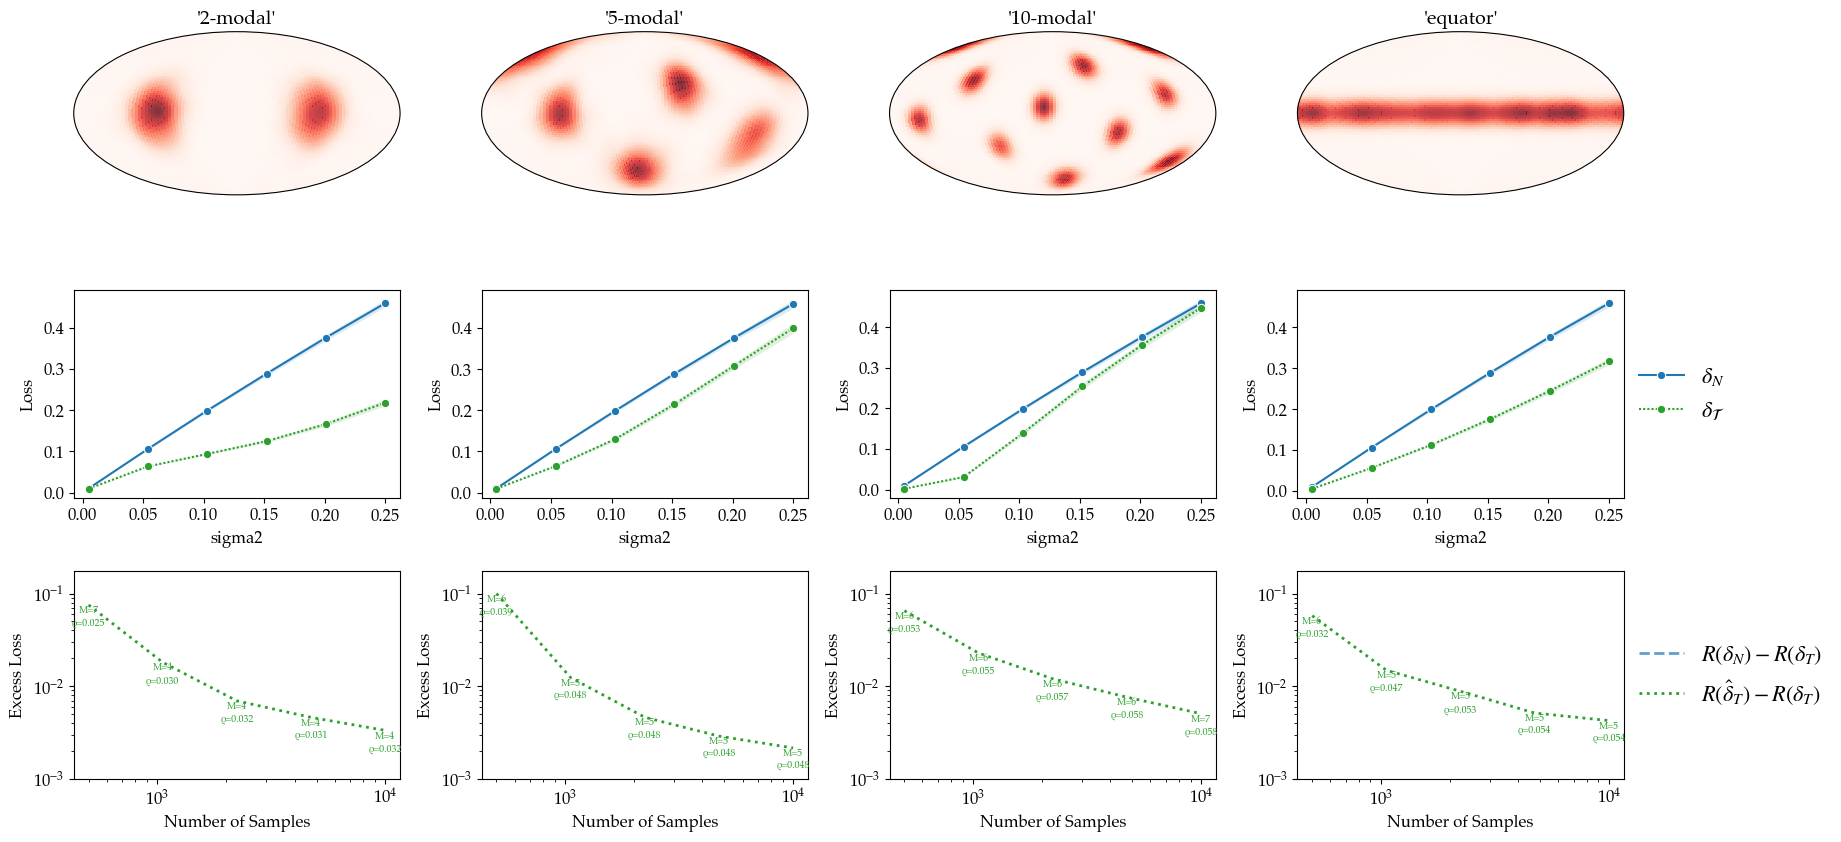
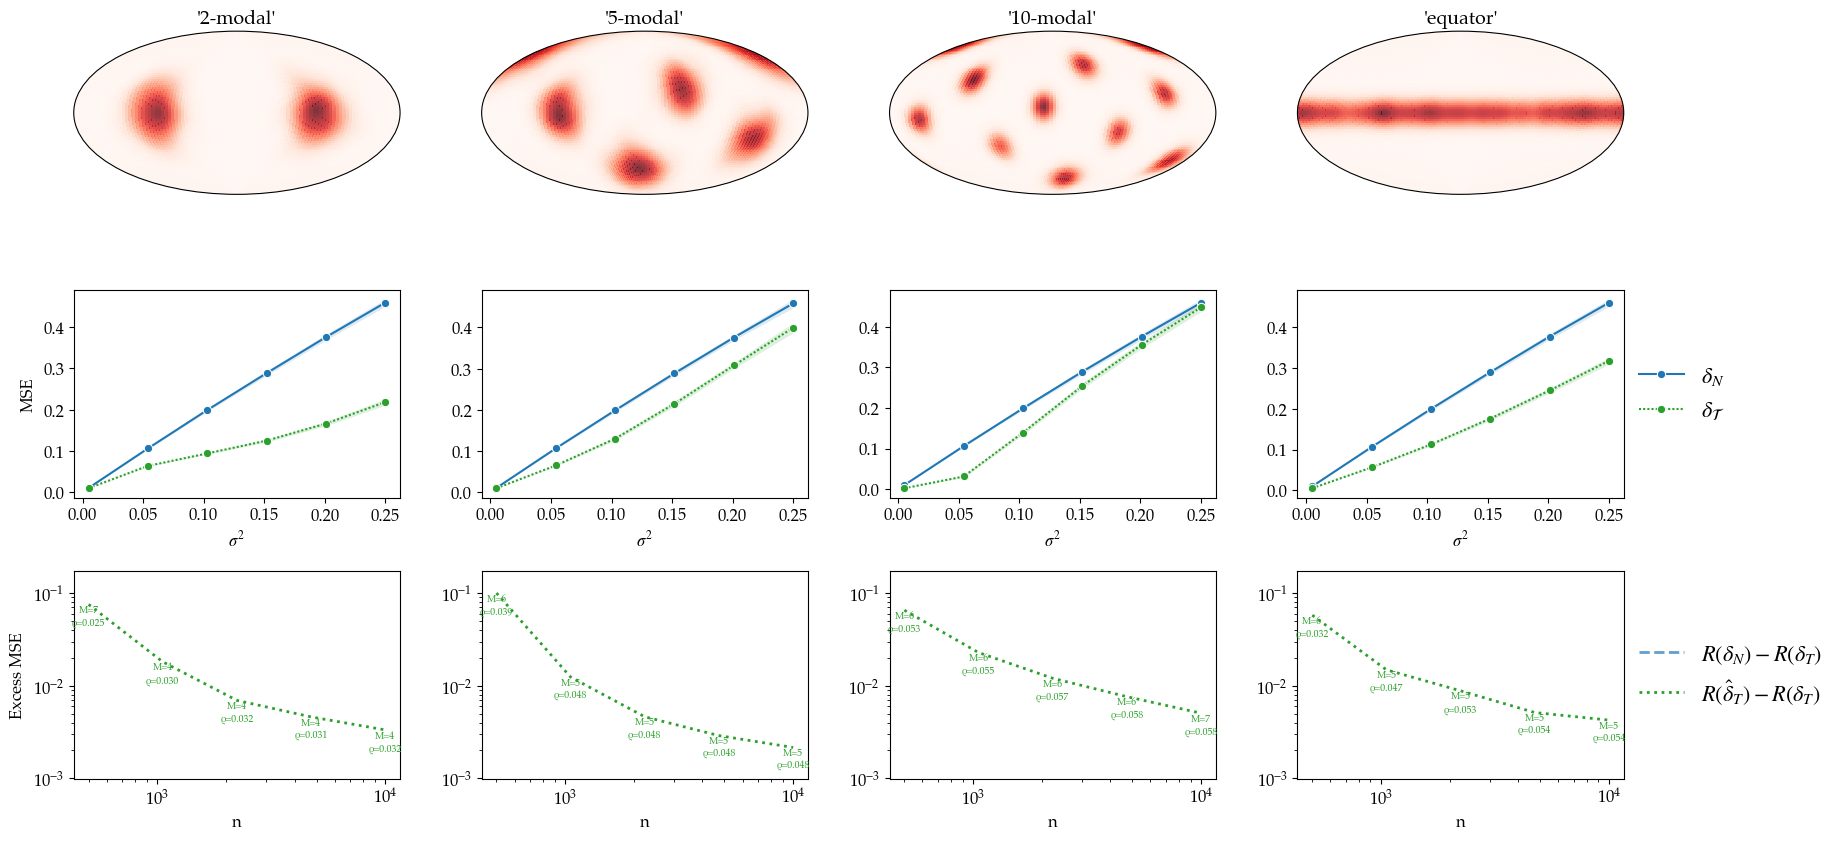
display mc rates edit

diff --git a/src/utils/display_rates.py b/src/utils/display_rates.py
@@ -174,6 +174,10 @@ def plot_sims(manifold_type, results_mc, results_ocv, params, selected_sigma2 = 
                 axs[1, idx].legend( loc="center left", bbox_to_anchor=(1.02, 0.5), frameon=False, borderaxespad=0.0,fontsize = 16)
             else:
                 axs[1, idx].legend([],[], frameon=False)
+                axs[1, idx].set_ylabel('')
+            axs[1, idx].set_xlabel("$\sigma^2$")
+
+
 
 
         # sample_sizes = sorted(results_ocv[results_ocv["G"] == G.name]["num_samples"].unique())
@@ -236,7 +240,6 @@ def plot_sims(manifold_type, results_mc, results_ocv, params, selected_sigma2 = 
             else: b_cv = np.nan
 
             if variable == "excess_loss":
-                ax.set_ylabel("Excess Loss")
                 if manifold_type == 'S1':
                     ax.set_ylim(.75e-3, 1.25e-1)
                 else:
@@ -244,7 +247,7 @@ def plot_sims(manifold_type, results_mc, results_ocv, params, selected_sigma2 = 
 
             else:
                 ax.set_ylabel(variable)
-            ax.set_xlabel("Number of Samples")
+            ax.set_xlabel("n")
             if _axis_all_positive_finite(ax):
                 ax.set_xscale("log")
                 ax.set_yscale("log")
@@ -260,6 +263,10 @@ def plot_sims(manifold_type, results_mc, results_ocv, params, selected_sigma2 = 
         else:
             axs[2, idx].legend([],[], frameon=False)
 
+    for ax in axs.ravel():
+        ax.set_ylabel('')
+    axs[2, 0].set_ylabel("Excess MSE")
+    axs[1, 0].set_ylabel("MSE")
     if savefig is not None:
         plt.savefig(savefig, bbox_inches='tight')
     return None

diff --git a/README.md b/README.md
@@ -18,9 +18,10 @@ Lastly, we implement our methodology in denoising problems from two scientific a
 ![S1](fig/all_examples/S1_3-modal.png)
 ![S2](fig/all_examples/S2_equator.png)
 
-### Example: Denoising Gamma Ray Bursts (Astronomy Application)
-![Denoising Gamma Ray Bursts](fig/astro.png)
 
 ### Example: Estimating Torsion Angles of Adjacent Amino Acids in a Protein
 ![Ramachandran plot](fig/chemi.png)
+
+### Example: Denoising Gamma Ray Bursts (Astronomy Application)
+![Denoising Gamma Ray Bursts](fig/astro.png)
 ---